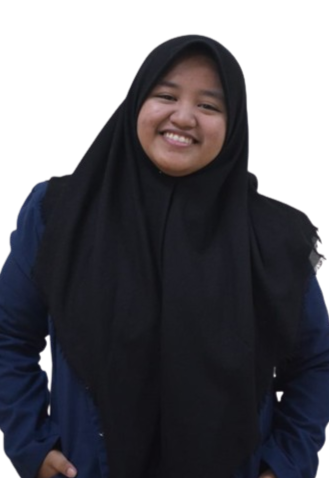
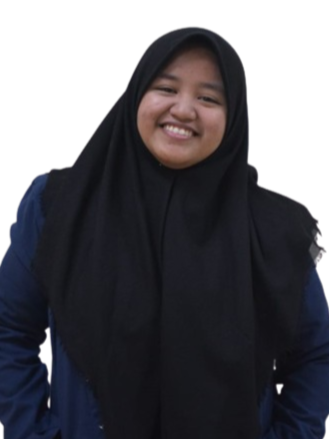
adding member images

diff --git a/teams.html b/teams.html
@@ -94,7 +94,7 @@
 
             </div>
             <div class="team-card">
-                <img src="as./img/foto.png" alt="Member Photo" />
+                <img src="./img/salma.png" alt="Member Photo" />
                 <h3>Salma Rosyada</h3>
                 <p>Universitas Airlangga</p>
                 <p>Teknologi Sains Data 2020</p>
@@ -120,7 +120,7 @@
             <div class="team-card">
                 <img src="./img/angga.png" alt="Member Photo" />
                 <h3>Wiyangga Oktaviano Putra Prasetya</h3>
-                <h3>Universitas Tarumanagara</h3>
+                <p>Universitas Tarumanagara</p>
                 <p>Sistem Informasi 2021</p>
             </div>
         </div>
